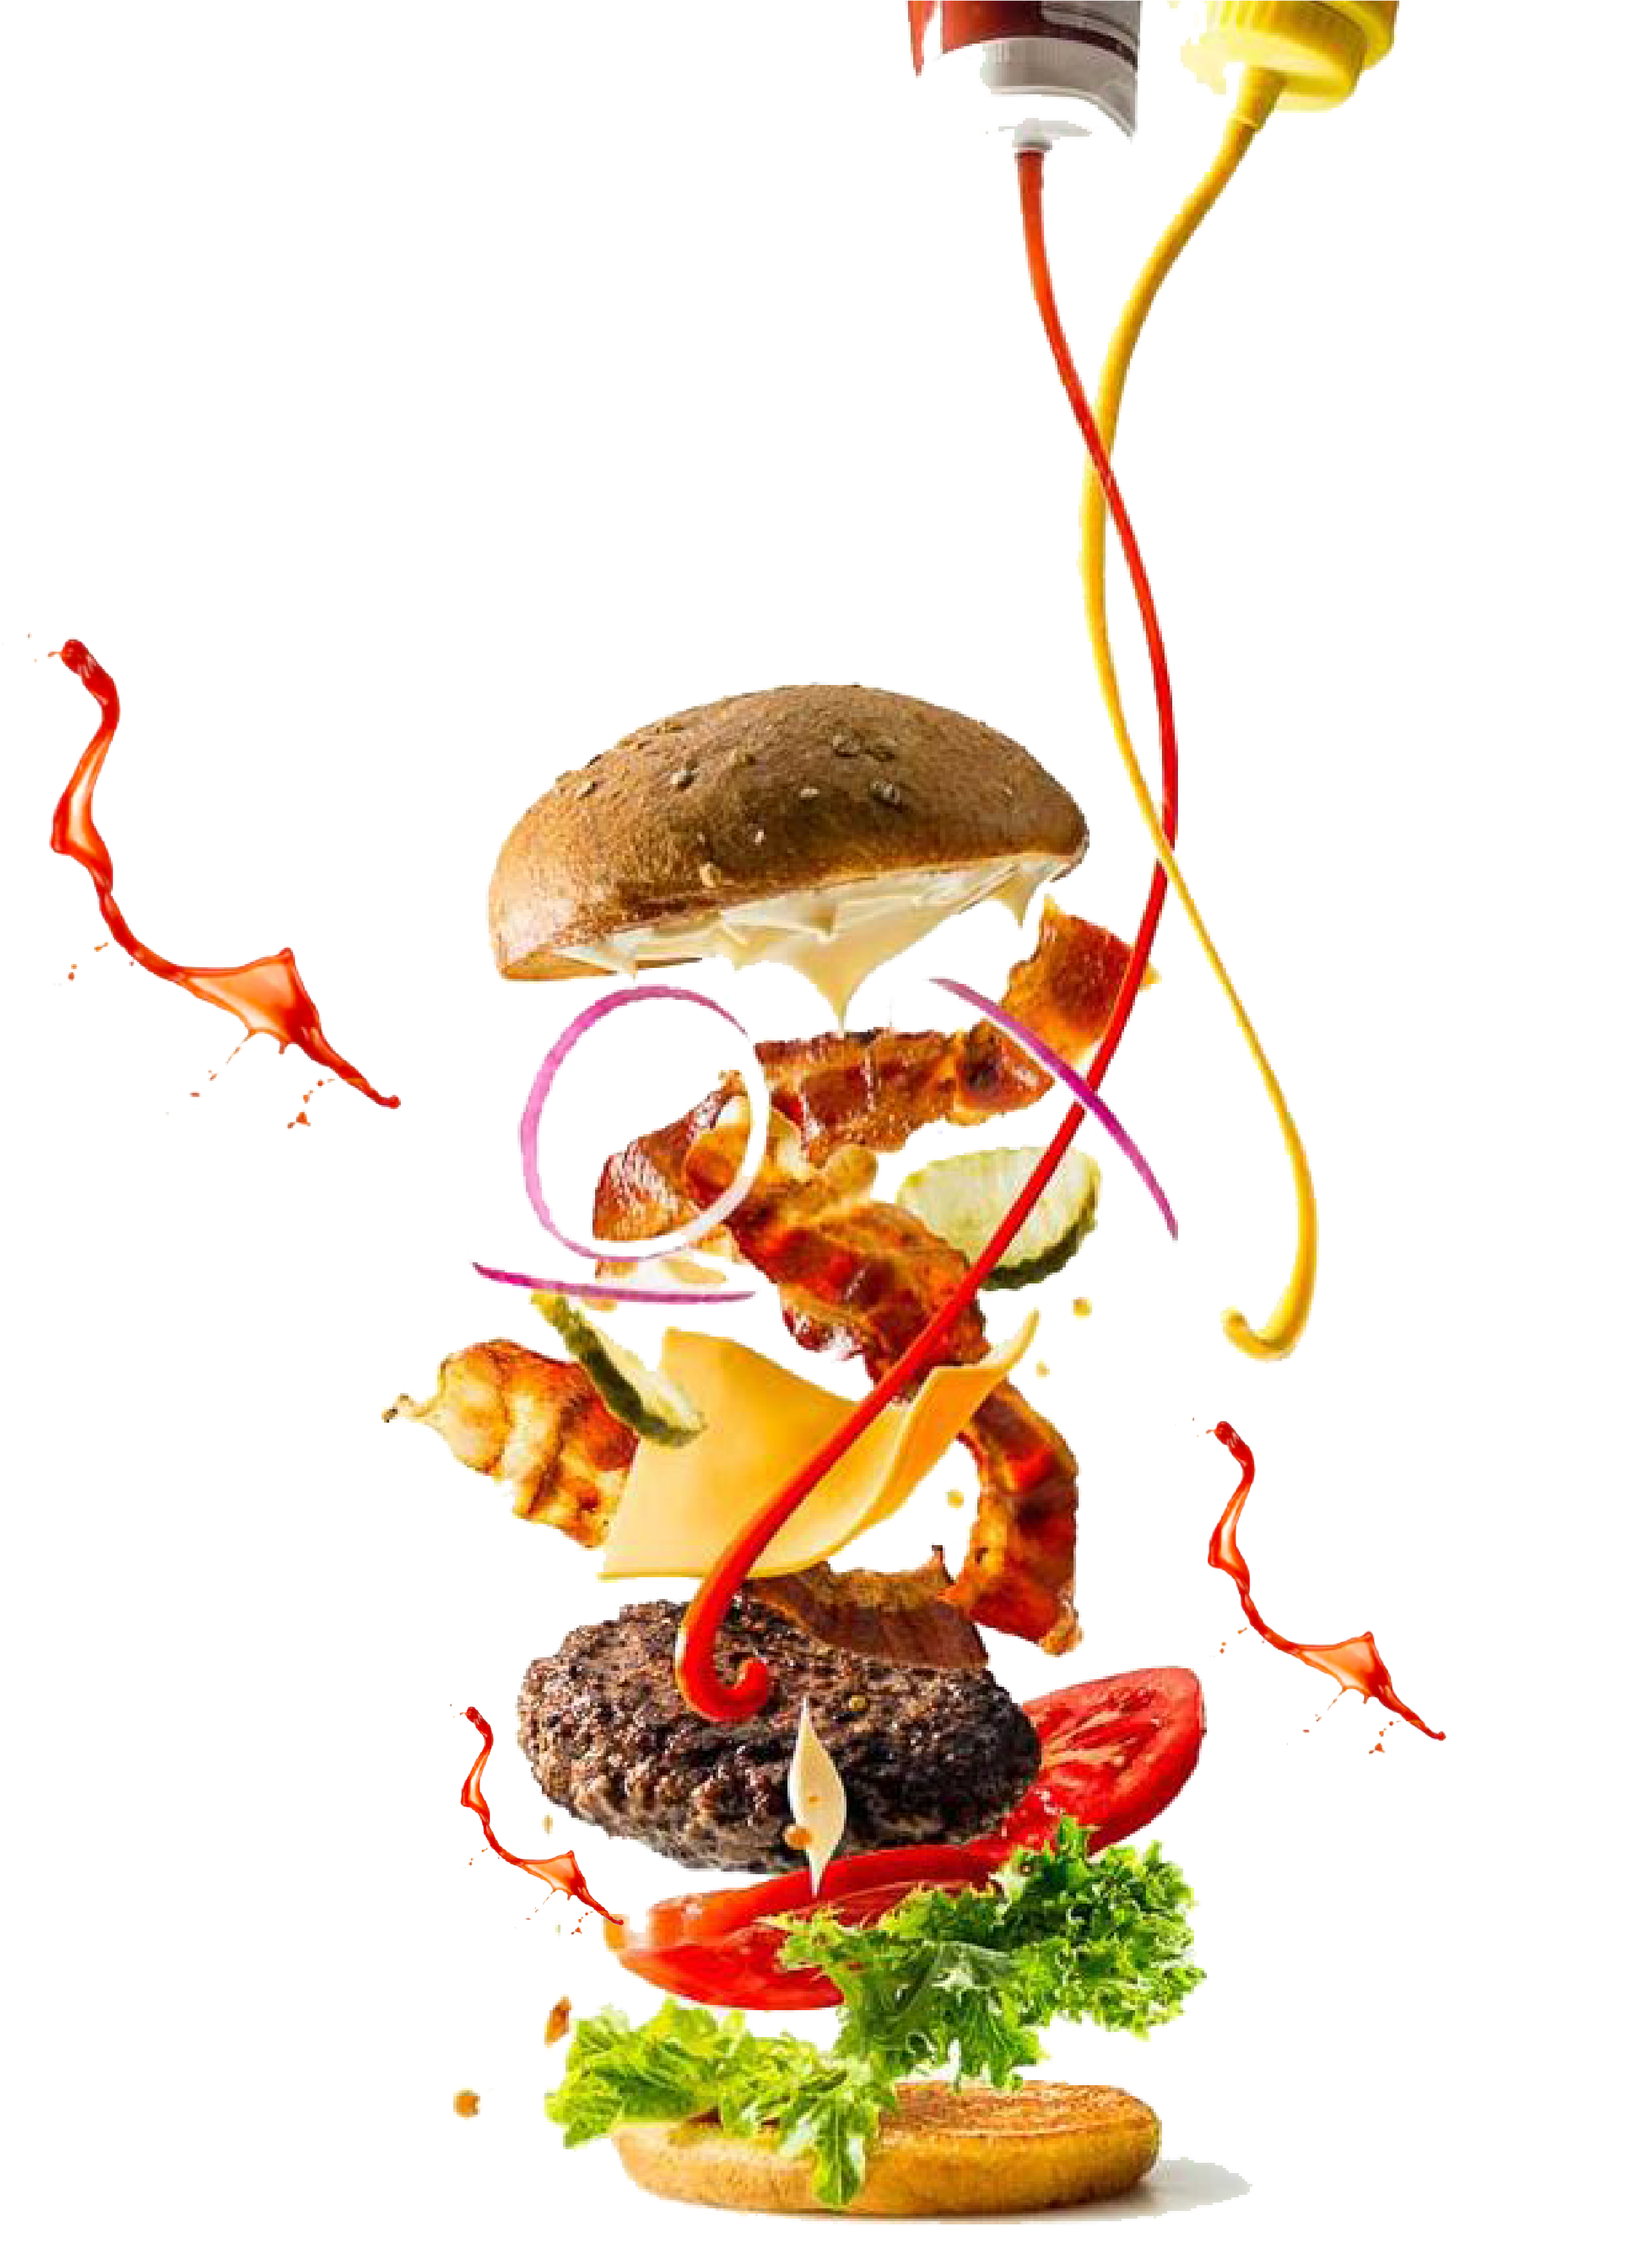
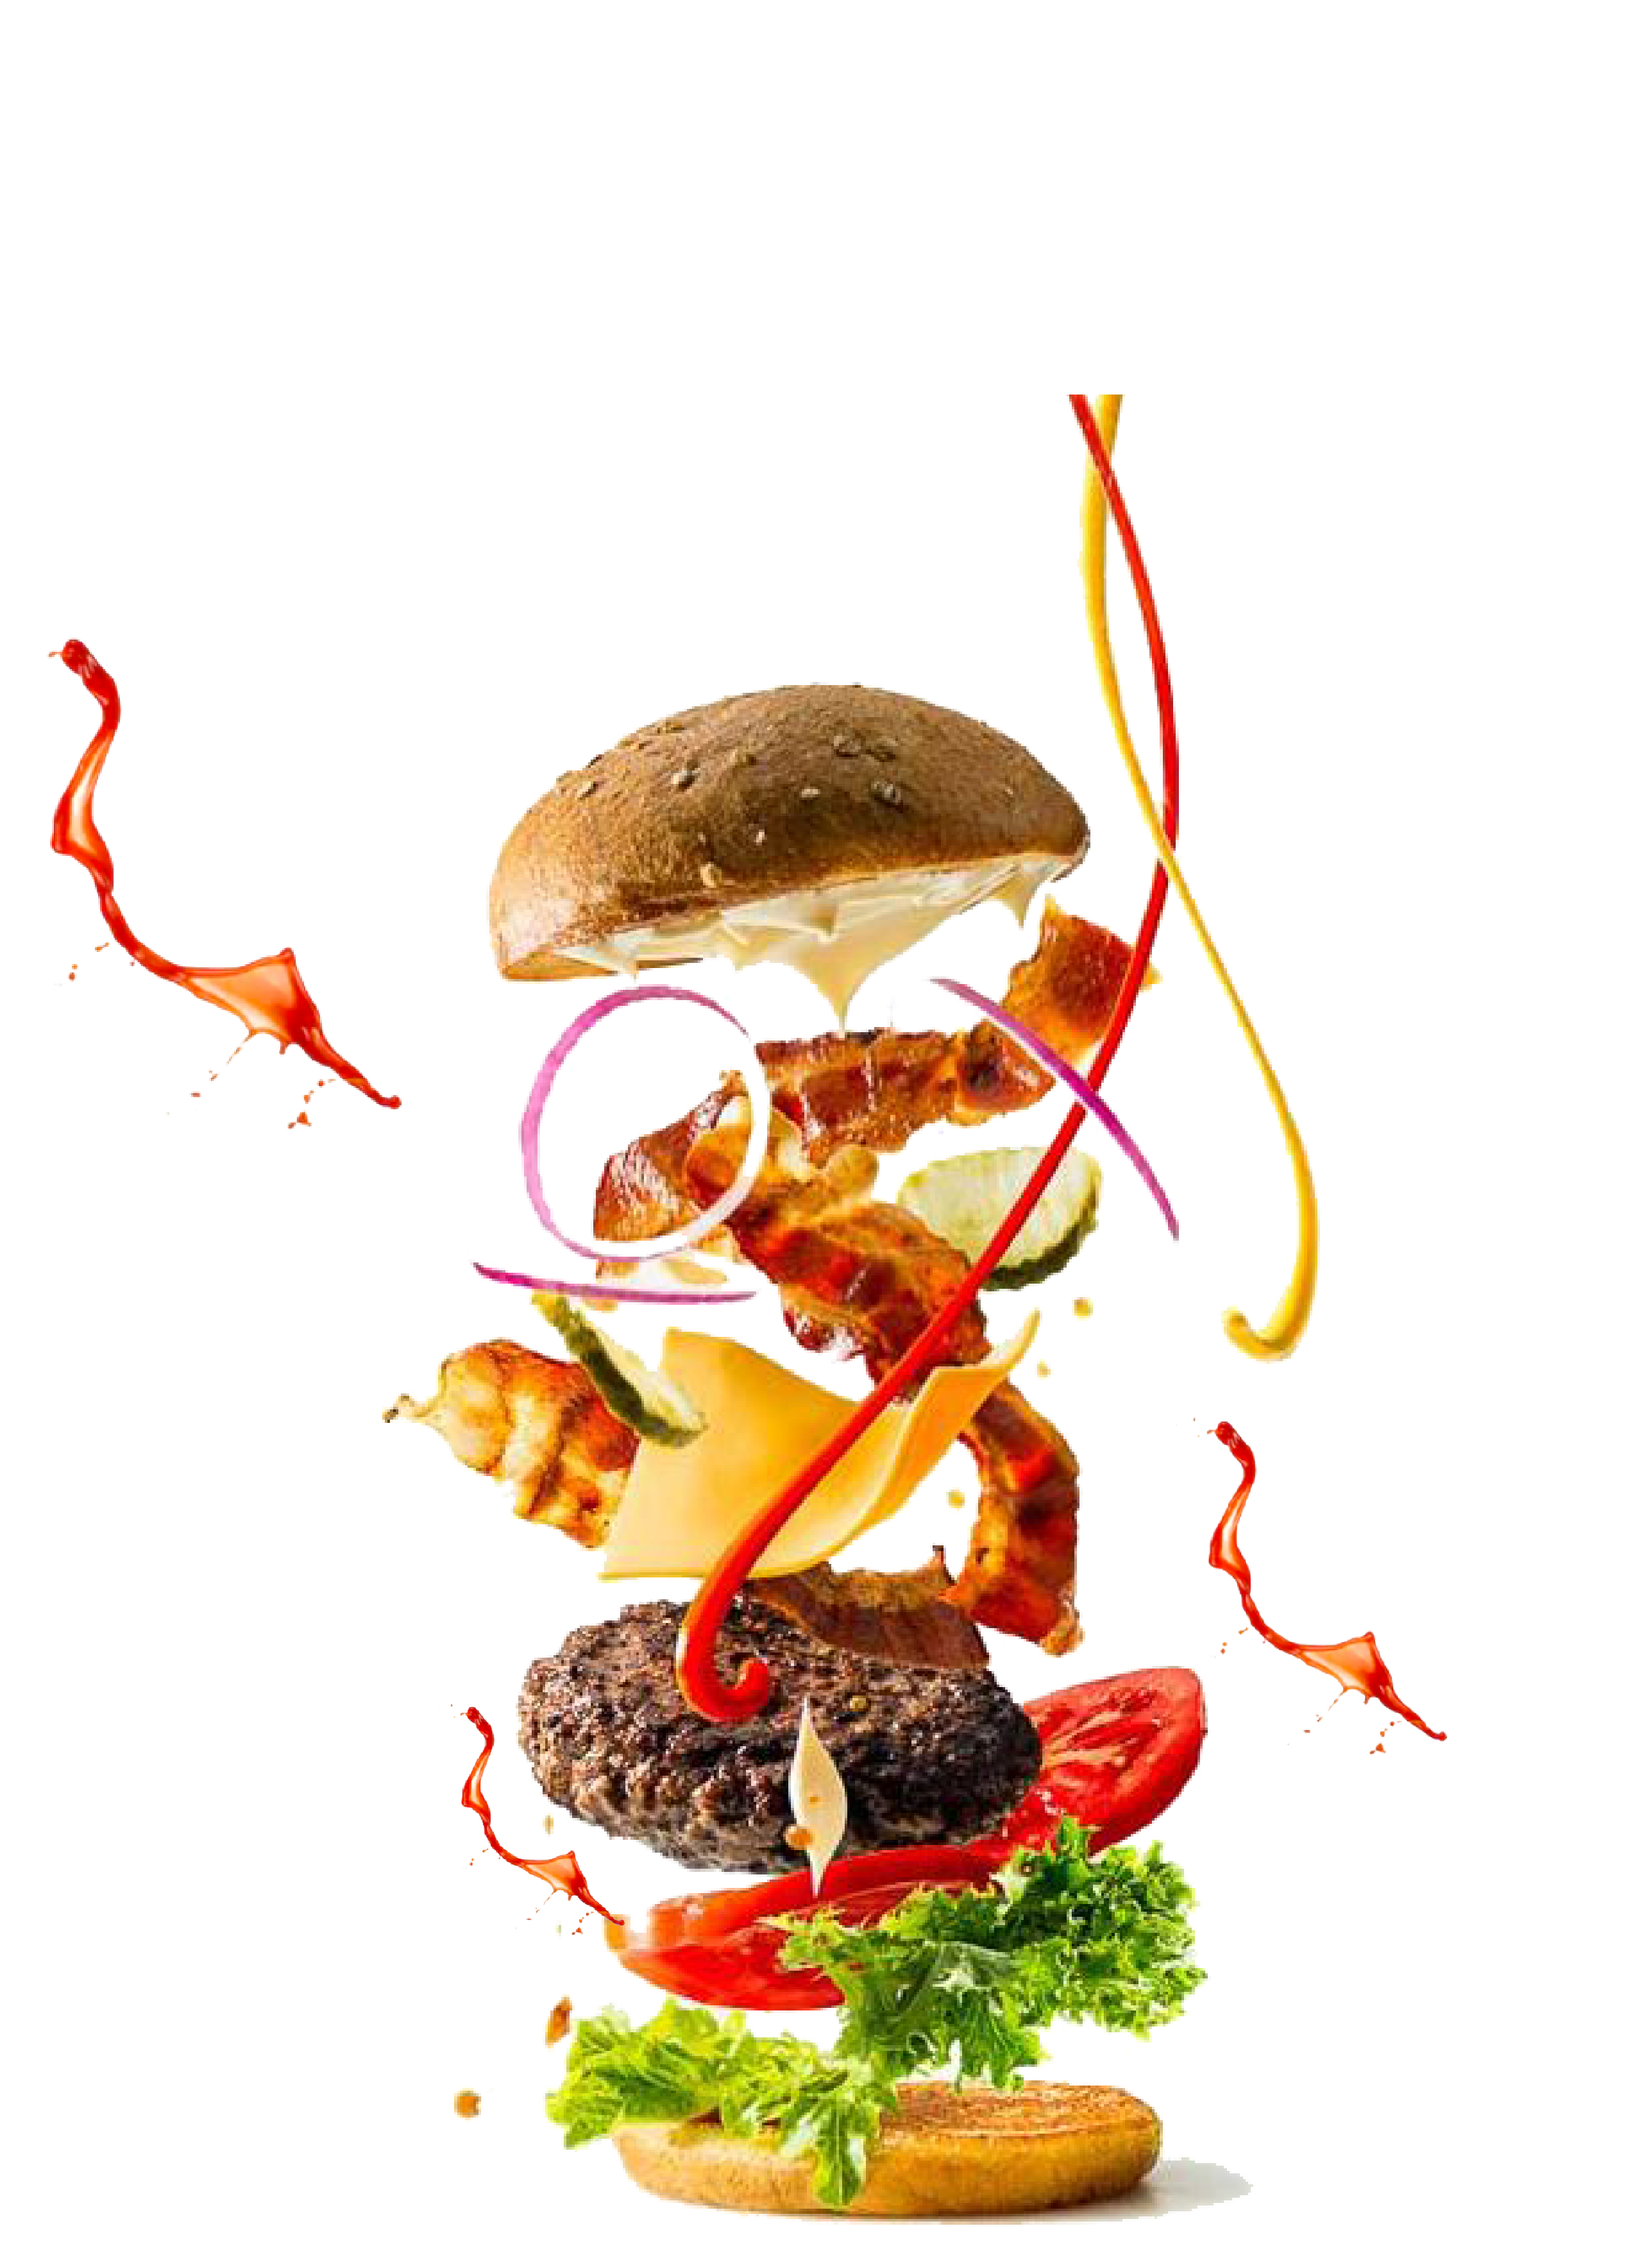
Add background images Login-Page1

diff --git a/src/components/BackgLogin/BackgLogin.module.css b/src/components/BackgLogin/BackgLogin.module.css
@@ -1,33 +1,36 @@
-/* .burgerLogin {
-    border: 1px solid red;
-    position: relative;
-    width: 447px;
-    height: 923px;
-    left: 747px;
-    top: -226px;
-}; */
-
-.prueba {
-    border: 1px solid red;
+.containerLogin {
     display: flex;
-
-}
-.triangle {
-/*     display: flex;
     flex-direction: row;
     justify-content: flex-end;
-    align-items: flex-start;
+}
 
-    align-self: end; */
+.burgerLogin {
+    width: 800px;
+    height: auto;
+    left: 640px;
+    top: -226px;
+    position: fixed;
+}
 
+.triangle {
     width: 0;
     height: 0;
     border-right: 0px solid transparent;
     border-left: 900px solid transparent;
-    border-top: 1100px solid #FFE168;
+    border-top: 1020px solid #FFE168;
 
+}
 
-/* background: #F7CA4B;
-transform: matrix(-0.71, -0.71, -0.71, 0.71, 0, 0); */
+.waiter {
+    position: absolute;
+    width: 15%;
+    left: 194px;
+    top: 574px;
+}
 
+.hatCheff { 
+    position: absolute;
+    width: 15%;
+    left: 528px;
+    top: 574px;
 }

diff --git a/src/components/BackgLogin/BackgLogin.js b/src/components/BackgLogin/BackgLogin.js
@@ -1,14 +1,22 @@
 import React from 'react';
 import BurgerLogin from '../../assets/imgs/BurgerLogin1.png';
+import Waiter from '../../assets/imgs/waiter.png';
+import HatCheff from '../../assets/imgs/hat-chef.png';
+
 import styles from './BackgLogin.module.css'
 
-const BackgLogin = () => (
-    <div className={styles.prueba}>
-        <div className={styles.triangle}>
-        
-     <img className={styles.burgerLogin} src={BurgerLogin} alt=""/>
-    </div>
 
+const BackgLogin = () => (
+    <div className={styles.containerLogin}>
+        <div className={styles.triangle}>
+            
+            <img className={styles.burgerLogin} src={BurgerLogin} alt=""/>
+
+            <img className={styles.waiter} src={Waiter} alt=""/>
+            <img className={styles.hatCheff} src={HatCheff} alt=""/>        
+        
+        </div>
+ 
     </div>
 );
 
